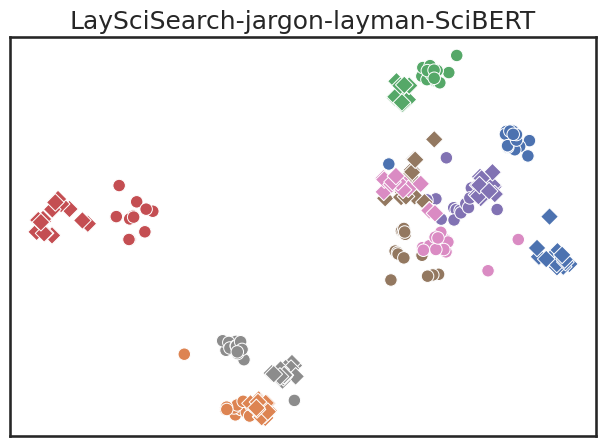
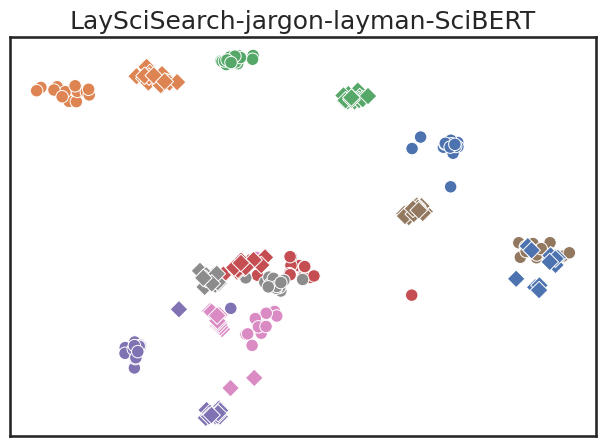
Update pca to tsne reduction

diff --git a/plot-tsne-embeddings.py b/plot-tsne-embeddings.py
@@ -105,7 +105,9 @@ if __name__ == "__main__":
     jargon_embeddings = model.encode(df["jargon"].to_list())
     layman_embeddings = model.encode(df["layman"].to_list())
 
-    pca = PCA()
+    # First reducing to 50 components using PCA
+    # before running through t-SNE, as per docs.
+    pca = PCA(n_components=50)
     jargon_pca = pca.fit_transform(jargon_embeddings)
     layman_pca = pca.fit_transform(layman_embeddings)
 
